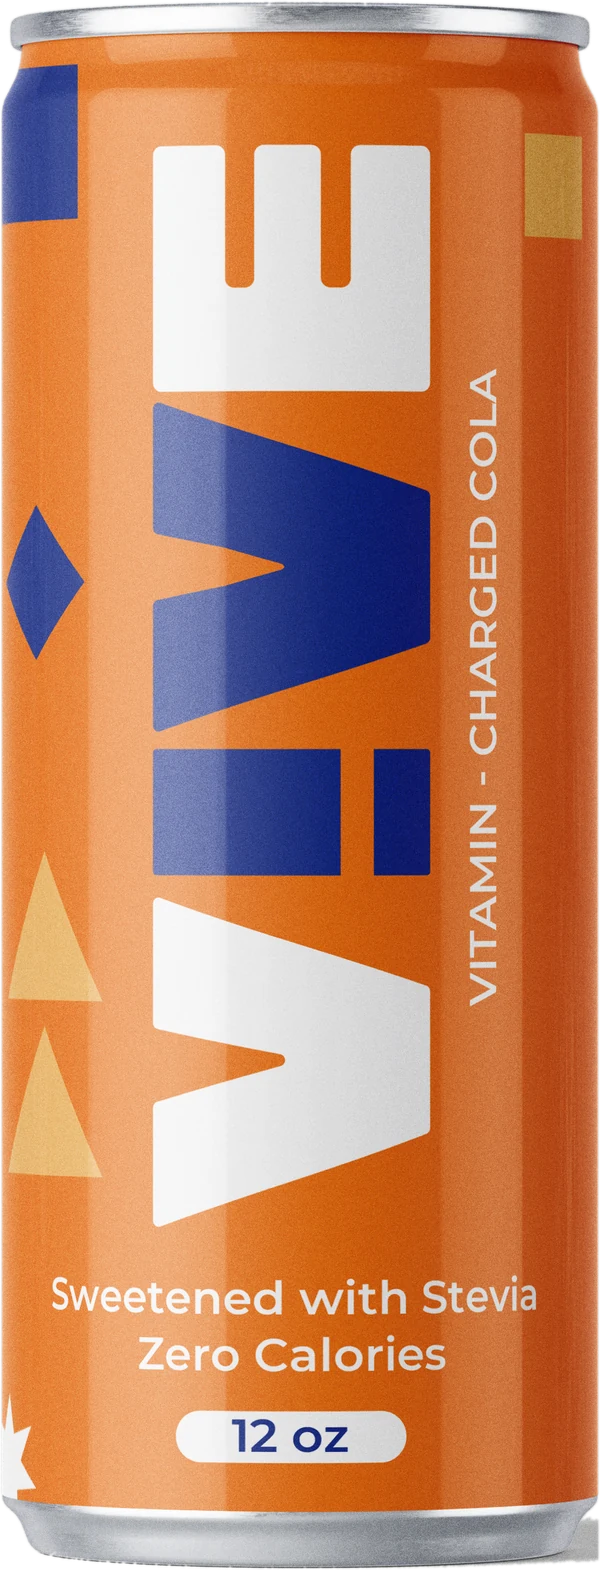
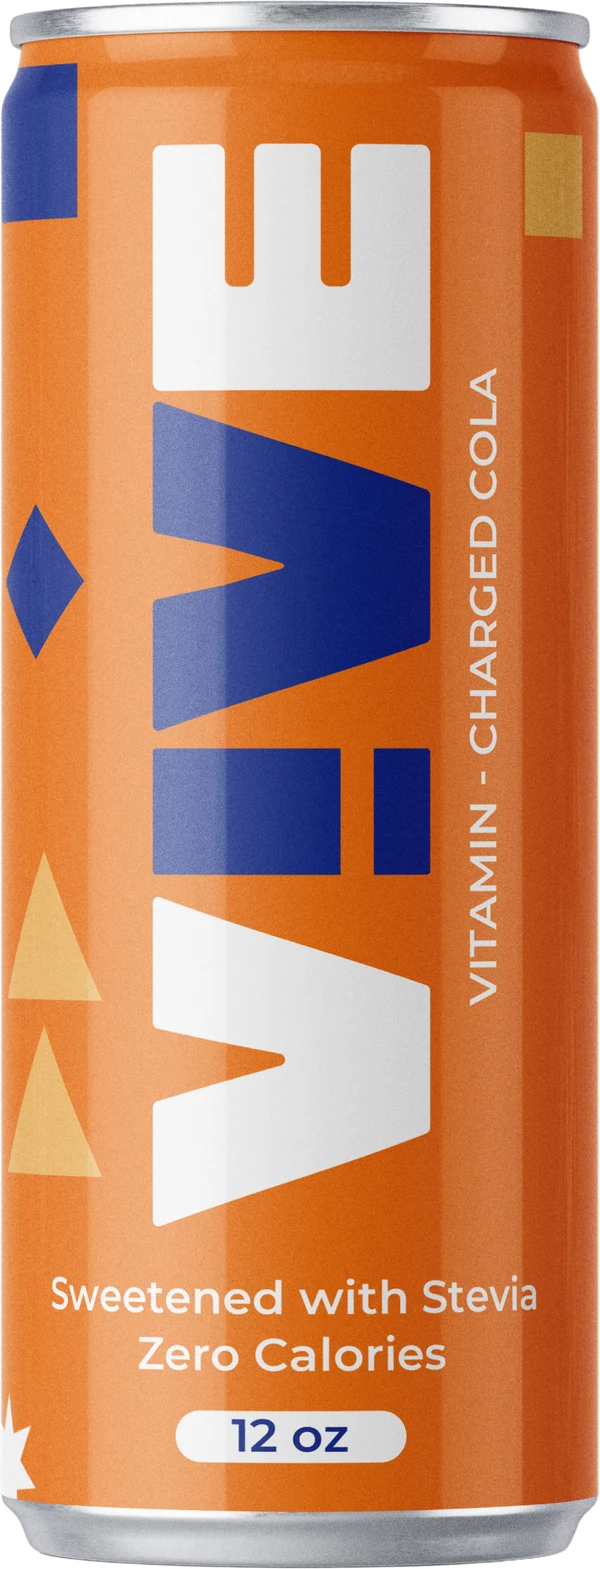
feat(site): Draw brand shapes from the deck SVGs and use transparent can renders
- Load stars, triangles, bullets, and the play icon from the deck-extract
  SVGs in assets/shapes in place of CSS clip-path drawing.
- Replace the can cutouts with the team's transparent Classic, Glow, and
  Focus renders, cropped to 600px wide.

Assisted-by: Anthropic Claude Code (Opus 5.5)

diff --git a/shop.html b/shop.html
@@ -23,7 +23,7 @@
   .s-hero p { font-size:clamp(16px,1.4vw,19px); line-height:1.55; font-weight:600; max-width:30em; margin:24px 0 0; }
   .jump { list-style:none; margin:28px 0 0; padding:0; display:flex; flex-wrap:wrap; gap:12px; }
   .s-hero .stack { position:relative; justify-self:end; width:min(100%,420px); aspect-ratio:1; }
-  .s-hero .stack .burst { position:absolute; inset:0; background:var(--sun); }
+  .s-hero .stack .burst { position:absolute; inset:0; background-image:url(assets/shapes/star-10pt-sun.svg); }
   .s-hero .stack img { position:absolute; width:52%; filter:drop-shadow(0 18px 16px rgba(20,24,63,.3)); }
   .s-hero .stack img:nth-of-type(1) { left:-2%; top:22%; rotate:-10deg; }
   .s-hero .stack img:nth-of-type(2) { right:-2%; top:4%; width:46%; rotate:12deg; }
@@ -92,9 +92,9 @@
 
 <main id="content">
 <section class="s-hero cut-down on-dark">
-  <i class="tri" aria-hidden="true" style="--s:110px;--c:var(--sun);--r:18deg;left:-26px;top:130px;--d:.05s"></i>
-  <i class="tri hide-sm" aria-hidden="true" style="--s:44px;--c:var(--orange);--r:-24deg;left:46%;top:96px;--d:.12s"></i>
-  <i class="tri hide-sm" aria-hidden="true" style="--s:56px;--c:var(--white);--r:200deg;left:52%;bottom:110px;--d:.2s"></i>
+  <i class="tri" aria-hidden="true" style="--s:110px;--c:url(assets/shapes/triangle-equilateral-sun.svg);--r:18deg;left:-26px;top:130px;--d:.05s"></i>
+  <i class="tri hide-sm" aria-hidden="true" style="--s:44px;--c:url(assets/shapes/triangle-equilateral-orange.svg);--r:-24deg;left:46%;top:96px;--d:.12s"></i>
+  <i class="tri hide-sm" aria-hidden="true" style="--s:56px;--c:url(assets/shapes/triangle-equilateral-white.svg);--r:200deg;left:52%;bottom:110px;--d:.2s"></i>
 
 
   <div class="grid wrap">
@@ -124,7 +124,7 @@
   </div>
   <div class="grid-3">
       <article class="item" data-item data-id="can-classic" data-name="VIVE Classic" data-price="67">
-        <div class="art lift-zone" style="--g:var(--orange)"><div class="lift"><img class="can" src="assets/can-classic-web.webp" alt="VIVE Classic can" width="600" height="1570" loading="lazy"></div></div>
+        <div class="art lift-zone" style="--g:var(--orange)"><div class="lift"><img class="can" src="assets/can-classic-web.webp" alt="VIVE Classic can" width="600" height="1569" loading="lazy"></div></div>
         <h3>VIVE Classic</h3>
         <p class="desc">The original orange can. Vitamins A, B9, B12, and C for everyday energy.</p>
         <div class="buy">
@@ -139,7 +139,7 @@
         <button class="btn navy add" type="button" data-add>Add to cart<span class="vh">: VIVE Classic</span></button>
       </article>
       <article class="item" data-item data-id="can-glow" data-name="VIVE Glow" data-price="67">
-        <div class="art lift-zone" style="--g:var(--sun)"><div class="lift"><img class="can" src="assets/can-glow-web.webp" alt="VIVE Glow can" width="600" height="1570" loading="lazy"></div></div>
+        <div class="art lift-zone" style="--g:var(--sun)"><div class="lift"><img class="can" src="assets/can-glow-web.webp" alt="VIVE Glow can" width="600" height="1568" loading="lazy"></div></div>
         <h3>VIVE Glow</h3>
         <p class="desc">Vitamins A, B7, C, and E to support skin health.</p>
         <div class="buy">
@@ -154,7 +154,7 @@
         <button class="btn navy add" type="button" data-add>Add to cart<span class="vh">: VIVE Glow</span></button>
       </article>
       <article class="item" data-item data-id="can-focus" data-name="VIVE Focus" data-price="67">
-        <div class="art lift-zone" style="--g:var(--navy)"><div class="lift"><img class="can" src="assets/can-focus-web.webp" alt="VIVE Focus can" width="600" height="1570" loading="lazy"></div></div>
+        <div class="art lift-zone" style="--g:var(--navy)"><div class="lift"><img class="can" src="assets/can-focus-web.webp" alt="VIVE Focus can" width="600" height="1569" loading="lazy"></div></div>
         <h3>VIVE Focus</h3>
         <p class="desc">Vitamins B6, B9, B12, and C to support mental performance.</p>
         <div class="buy">
@@ -178,7 +178,7 @@
   </div>
   <div class="grid-3">
       <article class="item" data-item data-id="pack-trio" data-name="Trio sampler" data-price="195">
-        <div class="art lift-zone" style="--g:var(--white)"><div class="lift"><div class="pack" role="img" aria-label="One Glow, one Classic, and one Focus can"><img src="assets/can-glow-web.webp" alt="" width="600" height="1570" loading="lazy"><img src="assets/can-classic-web.webp" alt="" width="600" height="1570" loading="lazy"><img src="assets/can-focus-web.webp" alt="" width="600" height="1570" loading="lazy"></div></div></div>
+        <div class="art lift-zone" style="--g:var(--white)"><div class="lift"><div class="pack" role="img" aria-label="One Glow, one Classic, and one Focus can"><img src="assets/can-glow-web.webp" alt="" width="600" height="1568" loading="lazy"><img src="assets/can-classic-web.webp" alt="" width="600" height="1569" loading="lazy"><img src="assets/can-focus-web.webp" alt="" width="600" height="1569" loading="lazy"></div></div></div>
         <h3>Trio sampler</h3>
         <p class="desc">One of each: Classic, Glow, and Focus. The easy way to find your vibe.</p>
         <div class="buy">
@@ -193,7 +193,7 @@
         <button class="btn navy add" type="button" data-add>Add to cart<span class="vh">: Trio sampler</span></button>
       </article>
       <article class="item" data-item data-id="pack-classic-6" data-name="Classic six-pack" data-price="380">
-        <div class="art lift-zone" style="--g:var(--sun)"><div class="lift"><div class="pack" role="img" aria-label="Six-pack of VIVE Classic cans"><img src="assets/can-classic-web.webp" alt="" width="600" height="1570" loading="lazy"><img src="assets/can-classic-web.webp" alt="" width="600" height="1570" loading="lazy"><img src="assets/can-classic-web.webp" alt="" width="600" height="1570" loading="lazy"></div></div></div>
+        <div class="art lift-zone" style="--g:var(--sun)"><div class="lift"><div class="pack" role="img" aria-label="Six-pack of VIVE Classic cans"><img src="assets/can-classic-web.webp" alt="" width="600" height="1569" loading="lazy"><img src="assets/can-classic-web.webp" alt="" width="600" height="1569" loading="lazy"><img src="assets/can-classic-web.webp" alt="" width="600" height="1569" loading="lazy"></div></div></div>
         <h3>Classic six-pack</h3>
         <p class="desc">Six cans of the original. Stock the office fridge for the week.</p>
         <div class="buy">
@@ -208,7 +208,7 @@
         <button class="btn navy add" type="button" data-add>Add to cart<span class="vh">: Classic six-pack</span></button>
       </article>
       <article class="item" data-item data-id="pack-party-12" data-name="12-can party pack" data-price="720">
-        <div class="art lift-zone" style="--g:var(--orange)"><div class="lift"><div class="pack" role="img" aria-label="Mixed pack of Focus, Classic, and Glow cans"><img src="assets/can-focus-web.webp" alt="" width="600" height="1570" loading="lazy"><img src="assets/can-classic-web.webp" alt="" width="600" height="1570" loading="lazy"><img src="assets/can-glow-web.webp" alt="" width="600" height="1570" loading="lazy"></div></div></div>
+        <div class="art lift-zone" style="--g:var(--orange)"><div class="lift"><div class="pack" role="img" aria-label="Mixed pack of Focus, Classic, and Glow cans"><img src="assets/can-focus-web.webp" alt="" width="600" height="1569" loading="lazy"><img src="assets/can-classic-web.webp" alt="" width="600" height="1569" loading="lazy"><img src="assets/can-glow-web.webp" alt="" width="600" height="1568" loading="lazy"></div></div></div>
         <h3>12-can party pack</h3>
         <p class="desc">Four of each vibe for game nights, team lunches, and courtside coolers.</p>
         <div class="buy">

diff --git a/product.html b/product.html
@@ -25,8 +25,8 @@
   .p-hero p { font-size:clamp(16px,1.4vw,19px); line-height:1.55; font-weight:600; max-width:30em; margin:24px 0 0; }
   .p-hero .actions { display:flex; flex-wrap:wrap; gap:12px; margin-top:28px; }
   .trio { position:relative; aspect-ratio:1/0.9; display:grid; place-items:center; }
-  .trio .burst { position:absolute; inset:4% 6%; background:var(--sun); }
-  .trio .burst.front { inset:12% 14%; background:var(--white); }
+  .trio .burst { position:absolute; inset:4% 6%; background-image:url(assets/shapes/star-10pt-sun.svg); }
+  .trio .burst.front { inset:12% 14%; background-image:url(assets/shapes/star-10pt-white.svg); }
   .trio .cans { position:relative; display:flex; align-items:flex-end; justify-content:center; width:100%; height:86%; }
   .trio img { width:23%; filter:drop-shadow(0 24px 20px rgba(20,24,63,.4)); margin:0 -2.5%; }
   .trio img:nth-child(1) { rotate:-12deg; translate:0 4%; }
@@ -46,12 +46,12 @@
   .variant .inner { position:relative; z-index:1; display:grid; grid-template-columns:.85fr 1.15fr; gap:clamp(32px,5vw,80px); align-items:center; }
   .variant.flip .inner { grid-template-columns:1.15fr .85fr; }
   .variant.flip .can-col { order:2; }
-  .v-classic { background:var(--orange); color:var(--deep); --chip:var(--white); --chip-ink:var(--navy); --star:var(--white); --numeral:rgba(29,39,102,.12); }
-  .v-glow { background:var(--sun); color:var(--navy); --chip:var(--navy); --chip-ink:var(--white); --star:var(--white); --numeral:rgba(43,57,144,.12); }
-  .v-focus { background:var(--navy); color:var(--white); --chip:var(--sun); --chip-ink:var(--navy); --star:var(--deep); --numeral:rgba(249,249,249,.08); }
+  .v-classic { background:var(--orange); color:var(--deep); --chip:var(--white); --chip-ink:var(--navy); --star:url(assets/shapes/star-10pt-white.svg); --numeral:rgba(29,39,102,.12); }
+  .v-glow { background:var(--sun); color:var(--navy); --chip:var(--navy); --chip-ink:var(--white); --star:url(assets/shapes/star-10pt-white.svg); --numeral:rgba(43,57,144,.12); }
+  .v-focus { background:var(--navy); color:var(--white); --chip:var(--sun); --chip-ink:var(--navy); --star:url(assets/shapes/star-10pt-deep.svg); --numeral:rgba(249,249,249,.08); }
 
   .can-col { position:relative; display:grid; place-items:center; aspect-ratio:1/1.05; }
-  .can-col .burst { position:absolute; inset:2%; background:var(--star); }
+  .can-col .burst { position:absolute; inset:2%; background-image:var(--star); }
   .can-col .lift-zone { position:relative; width:42%; display:grid; place-items:center; }
   .can-col .lift { --tilt:-8deg; width:100%; }
   .variant.flip .can-col .lift { --tilt:8deg; }
@@ -138,10 +138,10 @@
 
 <main id="content">
 <section class="p-hero cut-down on-dark">
-  <i class="tri" aria-hidden="true" style="--s:110px;--c:var(--sun);--r:18deg;left:-26px;top:130px;--d:.05s"></i>
-  <i class="tri hide-sm" aria-hidden="true" style="--s:44px;--c:var(--orange);--r:-24deg;left:44%;top:96px;--d:.12s"></i>
-  <i class="tri hide-sm" aria-hidden="true" style="--s:60px;--c:var(--white);--r:200deg;left:40%;bottom:120px;--d:.2s"></i>
-  <i class="tri" aria-hidden="true" style="--s:34px;--c:var(--orange);--r:40deg;right:5%;top:110px;--d:.26s"></i>
+  <i class="tri" aria-hidden="true" style="--s:110px;--c:url(assets/shapes/triangle-equilateral-sun.svg);--r:18deg;left:-26px;top:130px;--d:.05s"></i>
+  <i class="tri hide-sm" aria-hidden="true" style="--s:44px;--c:url(assets/shapes/triangle-equilateral-orange.svg);--r:-24deg;left:44%;top:96px;--d:.12s"></i>
+  <i class="tri hide-sm" aria-hidden="true" style="--s:60px;--c:url(assets/shapes/triangle-equilateral-white.svg);--r:200deg;left:40%;bottom:120px;--d:.2s"></i>
+  <i class="tri" aria-hidden="true" style="--s:34px;--c:url(assets/shapes/triangle-equilateral-orange.svg);--r:40deg;right:5%;top:110px;--d:.26s"></i>
 
 
   <div class="grid wrap">
@@ -157,9 +157,9 @@
       <div class="burst star"></div>
       <div class="burst front star"></div>
       <div class="cans">
-        <img src="assets/can-glow-web.webp" alt="" width="600" height="1570" fetchpriority="high">
-        <img src="assets/can-classic-web.webp" alt="" width="600" height="1570" fetchpriority="high">
-        <img src="assets/can-focus-web.webp" alt="" width="600" height="1570">
+        <img src="assets/can-glow-web.webp" alt="" width="600" height="1568" fetchpriority="high">
+        <img src="assets/can-classic-web.webp" alt="" width="600" height="1569" fetchpriority="high">
+        <img src="assets/can-focus-web.webp" alt="" width="600" height="1569">
       </div>
     </div>
   </div>
@@ -171,7 +171,7 @@
   <div class="inner">
     <div class="can-col" data-reveal>
       <div class="burst star" aria-hidden="true"></div>
-      <div class="lift-zone"><div class="lift"><img src="assets/can-classic-web.webp" alt="VIVE Classic can, orange, 12 oz" width="600" height="1570" loading="lazy"></div></div>
+      <div class="lift-zone"><div class="lift"><img src="assets/can-classic-web.webp" alt="VIVE Classic can, orange, 12 oz" width="600" height="1569" loading="lazy"></div></div>
     </div>
     <div>
       <p class="kicker" data-reveal>VIVE Classic · The original</p>
@@ -193,7 +193,7 @@
   <div class="inner">
     <div class="can-col" data-reveal>
       <div class="burst star" aria-hidden="true"></div>
-      <div class="lift-zone"><div class="lift"><img src="assets/can-glow-web.webp" alt="VIVE Glow can, pink, 12 oz" width="600" height="1570" loading="lazy"></div></div>
+      <div class="lift-zone"><div class="lift"><img src="assets/can-glow-web.webp" alt="VIVE Glow can, pink, 12 oz" width="600" height="1568" loading="lazy"></div></div>
     </div>
     <div>
       <p class="kicker" data-reveal>VIVE Glow · Skin health</p>
@@ -215,7 +215,7 @@
   <div class="inner">
     <div class="can-col" data-reveal>
       <div class="burst star" aria-hidden="true"></div>
-      <div class="lift-zone"><div class="lift"><img src="assets/can-focus-web.webp" alt="VIVE Focus can, teal, 12 oz" width="600" height="1570" loading="lazy"></div></div>
+      <div class="lift-zone"><div class="lift"><img src="assets/can-focus-web.webp" alt="VIVE Focus can, teal, 12 oz" width="600" height="1569" loading="lazy"></div></div>
     </div>
     <div>
       <p class="kicker" data-reveal>VIVE Focus · Mental performance</p>

diff --git a/index.html b/index.html
@@ -23,8 +23,8 @@
   .cta { position:relative; width:fit-content; display:flex; flex-wrap:wrap; gap:12px; margin-top:28px; }
   .cta .tri { left:calc(100% + 40px); top:calc(50% - var(--s) / 2); z-index:-1; }
   .stage { position:relative; aspect-ratio:1/1.15; display:grid; place-items:center; }
-  .stage .burst { position:absolute; inset:2% -6%; background:var(--white); animation:spin 90s linear infinite; }
-  .stage .burst.back { inset:-4% -12%; background:var(--sun); animation-direction:reverse; opacity:.9; }
+  .stage .burst { position:absolute; inset:2% -6%; background-image:url(assets/shapes/star-10pt-white.svg); animation:spin 90s linear infinite; }
+  .stage .burst.back { inset:-4% -12%; background-image:url(assets/shapes/star-10pt-sun.svg); animation-direction:reverse; opacity:.9; }
   @keyframes spin { to { transform:rotate(360deg); } }
   .hero.is-still .burst { animation-play-state:paused; }
   /* Discreet pause for the always-spinning stars (WCAG 2.2.2), bottom right of the hero */
@@ -79,7 +79,7 @@
   .player { aspect-ratio:16/9; max-width:1120px; margin:0 auto; position:relative; display:grid; place-items:center; text-align:center; font-weight:800;
             background:var(--deep); clip-path:polygon(0 0,100% 0,100% 92%,96% 100%,0 100%); outline:2px dashed rgba(249,249,249,.35); outline-offset:-14px; }
   .player .playbtn { width:96px; height:96px; background:var(--orange); margin:0 auto 14px; display:grid; place-items:center; }
-  .player .playbtn::after { content:""; width:34px; height:34px; background:var(--white); clip-path:polygon(0 0,100% 50%,0 100%); margin-left:6px; }
+  .player .playbtn::after { content:""; width:34px; height:34px; background:url(assets/shapes/triangle-right-white.svg) 81% 50% / 138% 120% no-repeat; margin-left:6px; }
 
   /* MORE POSTERS (seasonal), bottom of page */
   .more { background:var(--orange); }
@@ -113,10 +113,10 @@
 
 <main id="content">
 <section class="hero cut-down on-dark">
-  <i class="tri" style="--s:120px;--c:var(--sun);--r:18deg;left:-30px;top:120px;--d:.05s"></i>
-  <i class="tri hide-sm" style="--s:46px;--c:var(--orange);--r:-24deg;left:42%;top:84px;--d:.12s"></i>
-  <i class="tri" style="--s:34px;--c:var(--orange);--r:40deg;right:6%;top:96px;--d:.24s"></i>
-  <i class="tri hide-sm" style="--s:58px;--c:var(--sun);--r:-150deg;left:8%;bottom:70px;--d:.3s"></i>
+  <i class="tri" style="--s:120px;--c:url(assets/shapes/triangle-equilateral-sun.svg);--r:18deg;left:-30px;top:120px;--d:.05s"></i>
+  <i class="tri hide-sm" style="--s:46px;--c:url(assets/shapes/triangle-equilateral-orange.svg);--r:-24deg;left:42%;top:84px;--d:.12s"></i>
+  <i class="tri" style="--s:34px;--c:url(assets/shapes/triangle-equilateral-orange.svg);--r:40deg;right:6%;top:96px;--d:.24s"></i>
+  <i class="tri hide-sm" style="--s:58px;--c:url(assets/shapes/triangle-equilateral-sun.svg);--r:-150deg;left:8%;bottom:70px;--d:.3s"></i>
 
 
   <div class="grid wrap">
@@ -124,7 +124,7 @@
       <h1>Your dose of <em>good vibes</em></h1>
       <p>The vitamin-charged cola. A convenient, refreshing way to get your vitamins A, B9, B12, and C from a cold can of cola.</p>
       <div class="cta">
-        <i class="tri hide-sm" aria-hidden="true" style="--s:70px;--c:var(--white);--r:200deg;--d:.18s"></i>
+        <i class="tri hide-sm" aria-hidden="true" style="--s:70px;--c:url(assets/shapes/triangle-equilateral-white.svg);--r:200deg;--d:.18s"></i>
         <a class="btn orange" href="shop.html">Grab a VIVE!</a>
         <a class="btn white" href="product.html">See the flavors</a>
       </div>
@@ -132,7 +132,7 @@
     <div class="stage">
       <div class="burst back star"></div>
       <div class="burst star"></div>
-      <img class="can" src="assets/can-classic-web.webp" alt="VIVE Classic can, 12 oz" width="600" height="1570" fetchpriority="high">
+      <img class="can" src="assets/can-classic-web.webp" alt="VIVE Classic can, 12 oz" width="600" height="1569" fetchpriority="high">
     </div>
   </div>
   <button class="motion-toggle" type="button"><span class="vh">Pause </span>Motion <span class="icon" aria-hidden="true"></span></button>

diff --git a/about.html b/about.html
@@ -128,10 +128,9 @@
   .story-card li span.bullet {
     width: 10px;
     height: 10px;
-    background: var(--orange);
+    background: url(assets/shapes/triangle-equilateral-orange.svg) 50% 0 / 120% 120% no-repeat;
     display: inline-block;
     flex-shrink: 0;
-    clip-path: polygon(50% 0, 100% 100%, 0 100%);
   }
 
   /* Team Section — Direction B Expanding Panels */
@@ -335,8 +334,7 @@
     content: "";
     width: 10px;
     height: 10px;
-    background: var(--sun);
-    clip-path: polygon(50% 0, 100% 100%, 0 100%);
+    background: url(assets/shapes/triangle-equilateral-sun.svg) 50% 0 / 120% 120% no-repeat;
   }
 
   /* Call to Action Strip */
@@ -414,10 +412,10 @@
 <main id="content">
 <section class="about-hero cut-down on-dark">
   <!-- Dynamic Brand Triangles -->
-  <i class="tri" style="--s:110px;--c:var(--sun);--r:22deg;left:-20px;top:110px;--d:.06s"></i>
-  <i class="tri hide-sm" style="--s:42px;--c:var(--orange);--r:-28deg;left:48%;top:90px;--d:.14s"></i>
-  <i class="tri hide-sm" style="--s:64px;--c:var(--white);--r:190deg;left:34%;bottom:90px;--d:.2s"></i>
-  <i class="tri" style="--s:38px;--c:var(--orange);--r:38deg;right:8%;top:100px;--d:.26s"></i>
+  <i class="tri" style="--s:110px;--c:url(assets/shapes/triangle-equilateral-sun.svg);--r:22deg;left:-20px;top:110px;--d:.06s"></i>
+  <i class="tri hide-sm" style="--s:42px;--c:url(assets/shapes/triangle-equilateral-orange.svg);--r:-28deg;left:48%;top:90px;--d:.14s"></i>
+  <i class="tri hide-sm" style="--s:64px;--c:url(assets/shapes/triangle-equilateral-white.svg);--r:190deg;left:34%;bottom:90px;--d:.2s"></i>
+  <i class="tri" style="--s:38px;--c:url(assets/shapes/triangle-equilateral-orange.svg);--r:38deg;right:8%;top:100px;--d:.26s"></i>
 
 
   <div class="wrap hero-content">

diff --git a/site.css b/site.css
@@ -347,8 +347,7 @@ nav a[aria-current="page"] {
   position: absolute;
   width: var(--s);
   height: var(--s);
-  background: var(--c);
-  clip-path: polygon(50% 0, 100% 100%, 0 100%);
+  background: var(--c) 50% 0 / 120% 120% no-repeat;
   transform: rotate(var(--r));
   animation: snap .45s cubic-bezier(.2, 1.6, .4, 1) both;
   animation-delay: var(--d, 0s);
@@ -366,12 +365,9 @@ nav a[aria-current="page"] {
 }
 
 .star {
-  clip-path: polygon(
-    50% 0%, 59.5% 20.8%, 79.4% 9.5%, 77% 32.3%, 97.6% 34.5%,
-    84.6% 50%, 97.6% 65.5%, 77% 67.7%, 79.4% 90.5%, 59.5% 79.2%,
-    50% 100%, 40.5% 79.2%, 20.6% 90.5%, 23% 67.7%, 2.4% 65.5%,
-    15.4% 50%, 2.4% 34.5%, 23% 32.3%, 20.6% 9.5%, 40.5% 20.8%
-  );
+  background-position: center;
+  background-size: 100% 100%;
+  background-repeat: no-repeat;
 }
 
 /* Diagonal cuts between sections */
@@ -570,8 +566,7 @@ h3 .label {
   content: "";
   width: 14px;
   height: 14px;
-  background: var(--navy);
-  clip-path: polygon(50% 0, 100% 100%, 0 100%);
+  background: url(assets/shapes/triangle-equilateral-navy.svg) 50% 0 / 120% 120% no-repeat;
 }
 
 /* ==========================================================================

diff --git a/site.js b/site.js
@@ -131,9 +131,9 @@
   const footer = document.querySelector('footer.site-footer');
   if (footer && !footer.children.length) {
     footer.innerHTML = `
-  <i class="tri" aria-hidden="true" style="--s:140px;--c:var(--navy);--r:14deg;right:-30px;top:-24px"></i>
-  <i class="tri hide-sm" aria-hidden="true" style="--s:56px;--c:var(--orange);--r:-32deg;right:22%;top:48px"></i>
-  <i class="tri hide-sm" aria-hidden="true" style="--s:40px;--c:var(--sun);--r:200deg;left:46%;bottom:96px"></i>
+  <i class="tri" aria-hidden="true" style="--s:140px;--c:url(assets/shapes/triangle-equilateral-navy.svg);--r:14deg;right:-30px;top:-24px"></i>
+  <i class="tri hide-sm" aria-hidden="true" style="--s:56px;--c:url(assets/shapes/triangle-equilateral-orange.svg);--r:-32deg;right:22%;top:48px"></i>
+  <i class="tri hide-sm" aria-hidden="true" style="--s:40px;--c:url(assets/shapes/triangle-equilateral-sun.svg);--r:200deg;left:46%;bottom:96px"></i>
   <div class="foot-cta wrap">
     <div>
       <h2><span class="label sun">Grab a VIVE!</span></h2>

diff --git a/CONTEXT.md b/CONTEXT.md
@@ -57,6 +57,7 @@ This document is the canonical router and functional contract for the VIVE four-
 - **Asset integrity:** No placeholder photos and no placeholder texts (Lorem Ipsum). All content must be written and staged with genuine assets.
   - **Approved stand-ins (client, 2026-11-16):** until real assets exist, the site may use (1) the flat merch mockups in `assets/merch/` and (2) sample shop prices. The three cans now use the team's own renders. Each is labeled on the page or in its alt text. Replace them when the real renders, product photos, and prices arrive.
 - **Shared system:** Every page loads [site.css](site.css) and [site.js](site.js). `site.js` renders the one global footer, adds the header cart button and cart panel to the primary nav, and keeps the cart count in `localStorage` so it persists across pages and visits. The primary nav sits in a sticky `.site-header` on every page, and in-page links scroll smoothly to a stop below it (`scroll-padding-top: 96px`; reduced motion jumps instantly). Page files keep only page-specific styles.
+- **Brand shapes:** Stars and triangles load the SVG files from `assets/shapes/`, the web mirror of `source/deck-extract/` (`star-10pt-*.svg`, `triangle-equilateral-*.svg`, and `triangle-right-white.svg` for the play icon). A `.tri` takes its SVG through `--c:url(…)`, and a `.star` takes it through `background-image`. Section cuts, tilted labels, and button chamfers stay as CSS `clip-path` because they shape layout boxes, not standalone brand assets.
 - **Hover rule:** No hover effect may move its own hit area. Buttons show an offset shadow block behind them; tilting cards and images lift an inner `.lift` (with `pointer-events: none`) inside a static `.lift-zone`. Every hover also waits about 120ms before reversing when the pointer leaves. Together these prevent repeated hover toggling when the pointer rests on an edge.
 - **Dynamic visual generosity:** Apply signature brand patterns generously (10-point star, triangles, diagonal cuts, and contrasting color grounds). Do not settle for plainness.
 - **GitHub and Vercel publishing (`/deploy-with-vercel`):** The `vive-website/` directory will be published as a standalone repository on GitHub and deployed directly to Vercel. All relative asset links and inter-page navigations must function cleanly in this standalone root structure.
@@ -81,7 +82,7 @@ This document is the canonical router and functional contract for the VIVE four-
 | [direction-approved.md](direction-approved.md) | Design decision | Decision record for Direction C base + Direction A headings + Direction B panels |
 | `index.html`, `about.html`, etc. | Product output | The canonical static HTML pages at root |
 | `site.css`, `site.js` | Shared system | Tokens, nav, buttons, labels, cart, and the global footer |
-| `assets/` | Asset library | High-resolution WebP posters, can cutouts, logos, and mockups (`assets/merch/` holds the merch mockups) |
+| `assets/` | Asset library | High-resolution WebP posters, transparent can renders, logos, and mockups (`assets/merch/` holds the merch mockups) |
 | `scripts/` | Tooling | Link checkers and asset generators, including `generate_merch_mockups.py` |
 | `wix-assets/` | Source exports | Print exports and PDF materials for Wix migration |
 | `source/` | Archival source | Original 8-page brand deck and raw asset extracts |

diff --git a/brand-spec.md b/brand-spec.md
@@ -22,7 +22,7 @@ The older leaf wordmark and purple can in `training/vive-copy.md` are superseded
 | `ayala-malls-logo-white.png` (`source/deck-extract/`, `assets/`) | Ayala Malls monochromatic white logo (SVG vector and 1376×552 PNG, 2752×1104 2×) with clean transparency |
 | `sm-logo-white.svg` | SM Supermalls mark recolored from `source/deck-extract/SM_Supermalls_logo_2022.svg`: off-white circle with deep navy letters, for the home footer |
 | `seven-eleven-logo.svg` | 7-Eleven logo, vector, from Wikimedia Commons (`7-eleven_logo.svg`), cleaned of editor metadata |
-| `can-classic-web.webp`, `can-glow-web.webp`, `can-focus-web.webp` | The team's can renders (Drive: `Group 1 - (VIVE)/Mockups`), cut out of the studio background and saved at 600×1570. Used on Home, Product, and Shop |
+| `can-classic-web.webp`, `can-glow-web.webp`, `can-focus-web.webp` | The team's transparent can renders (Drive: `Group 1 - (VIVE)/Mockups`, `VIVE … (Transparent).png`), cropped to the can and saved at 600px wide (600×1569; Glow 600×1568). Used on Home, Product, and Shop |
 | `label-classic-nutrition.webp` | The Classic can label laid flat with the nutrition facts panel, 1600×1280, from the same Mockups folder. Used on the Product page |
 | `merch/*.svg` | Flat merch mockups in the brand palette, generated by `scripts/generate_merch_mockups.py` |
 | `shapes/` (`source/deck-extract/`, mirrored to `assets/shapes/`) | 148 standalone vector SVGs and 1024×1024 transparent PNGs: 10-point stars, 5-point stars, 4-point stars, squares & diamonds (solids, outlines, concentric badges, tilts, chamfers), triangles (equilateral, directional, acute energy, wireframe, corner wedges), angled banners, clusters, and price/vitamin burst badges |
